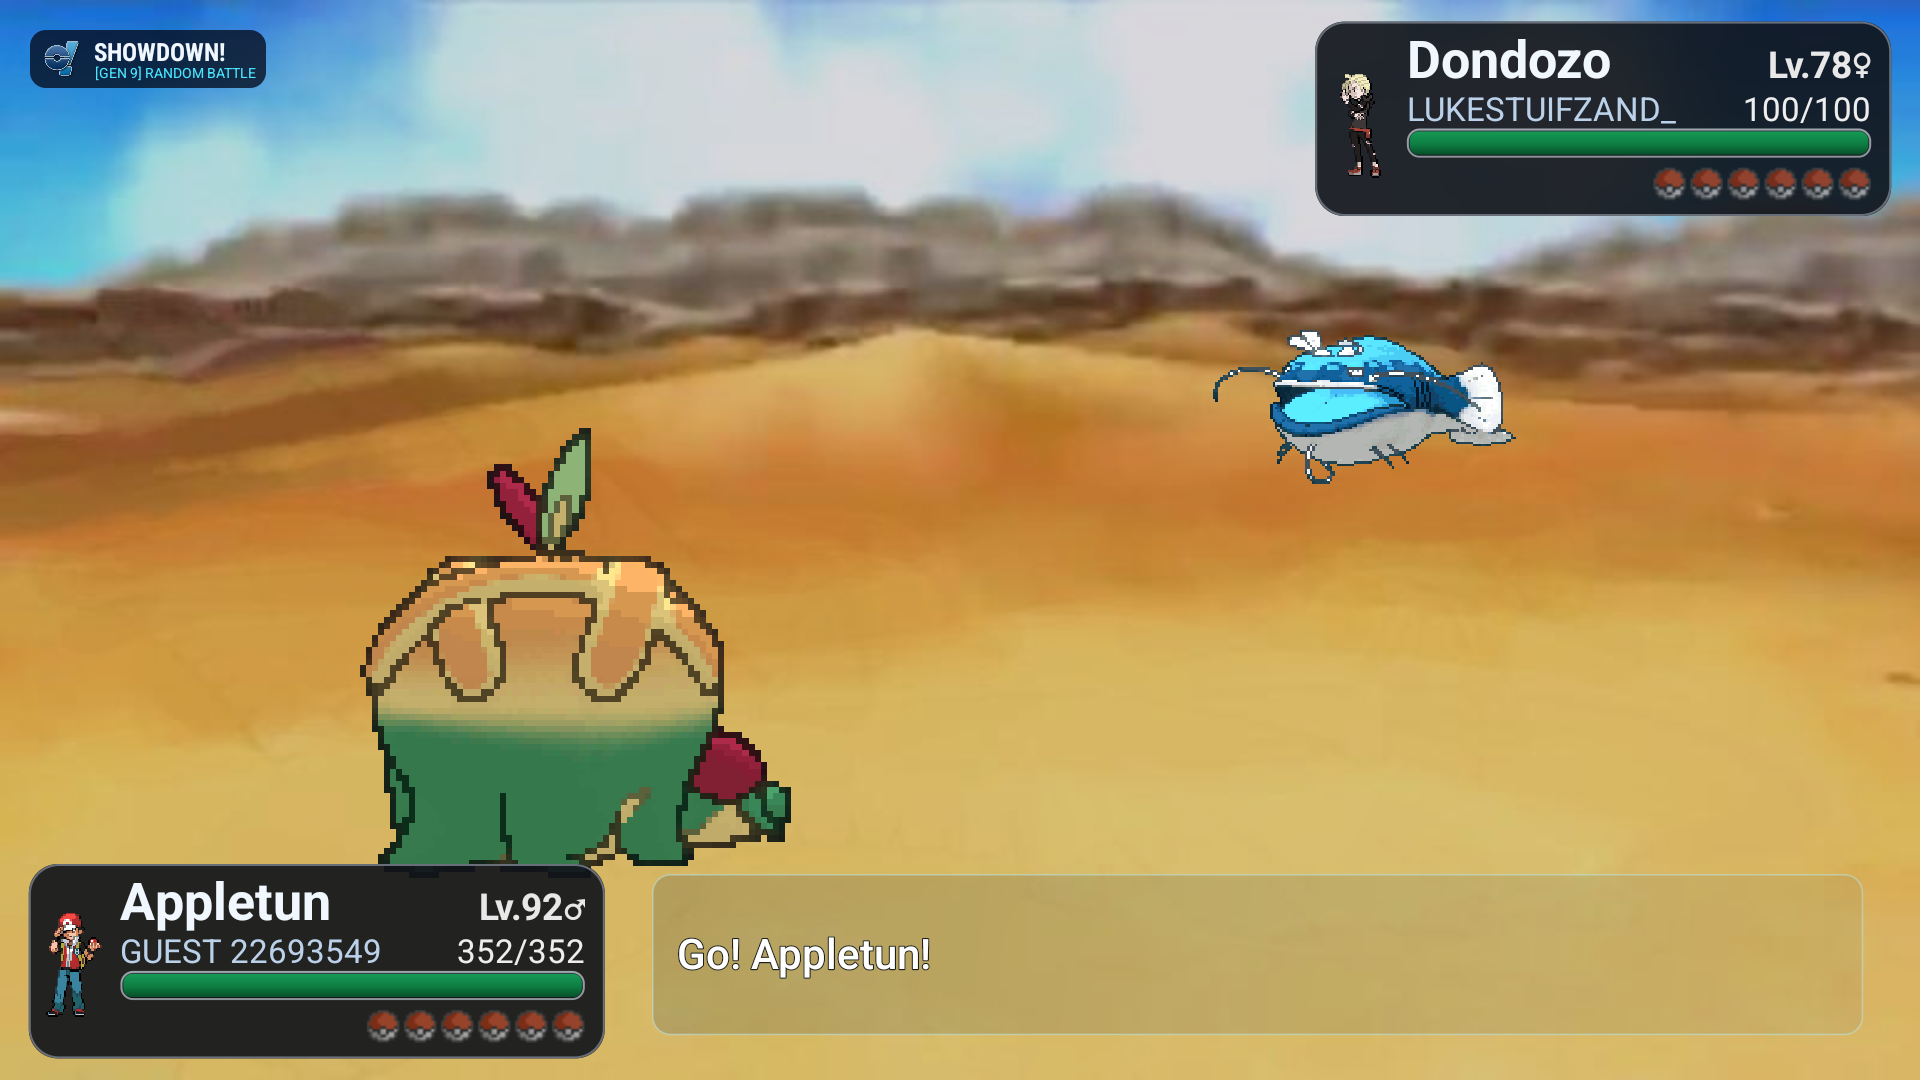
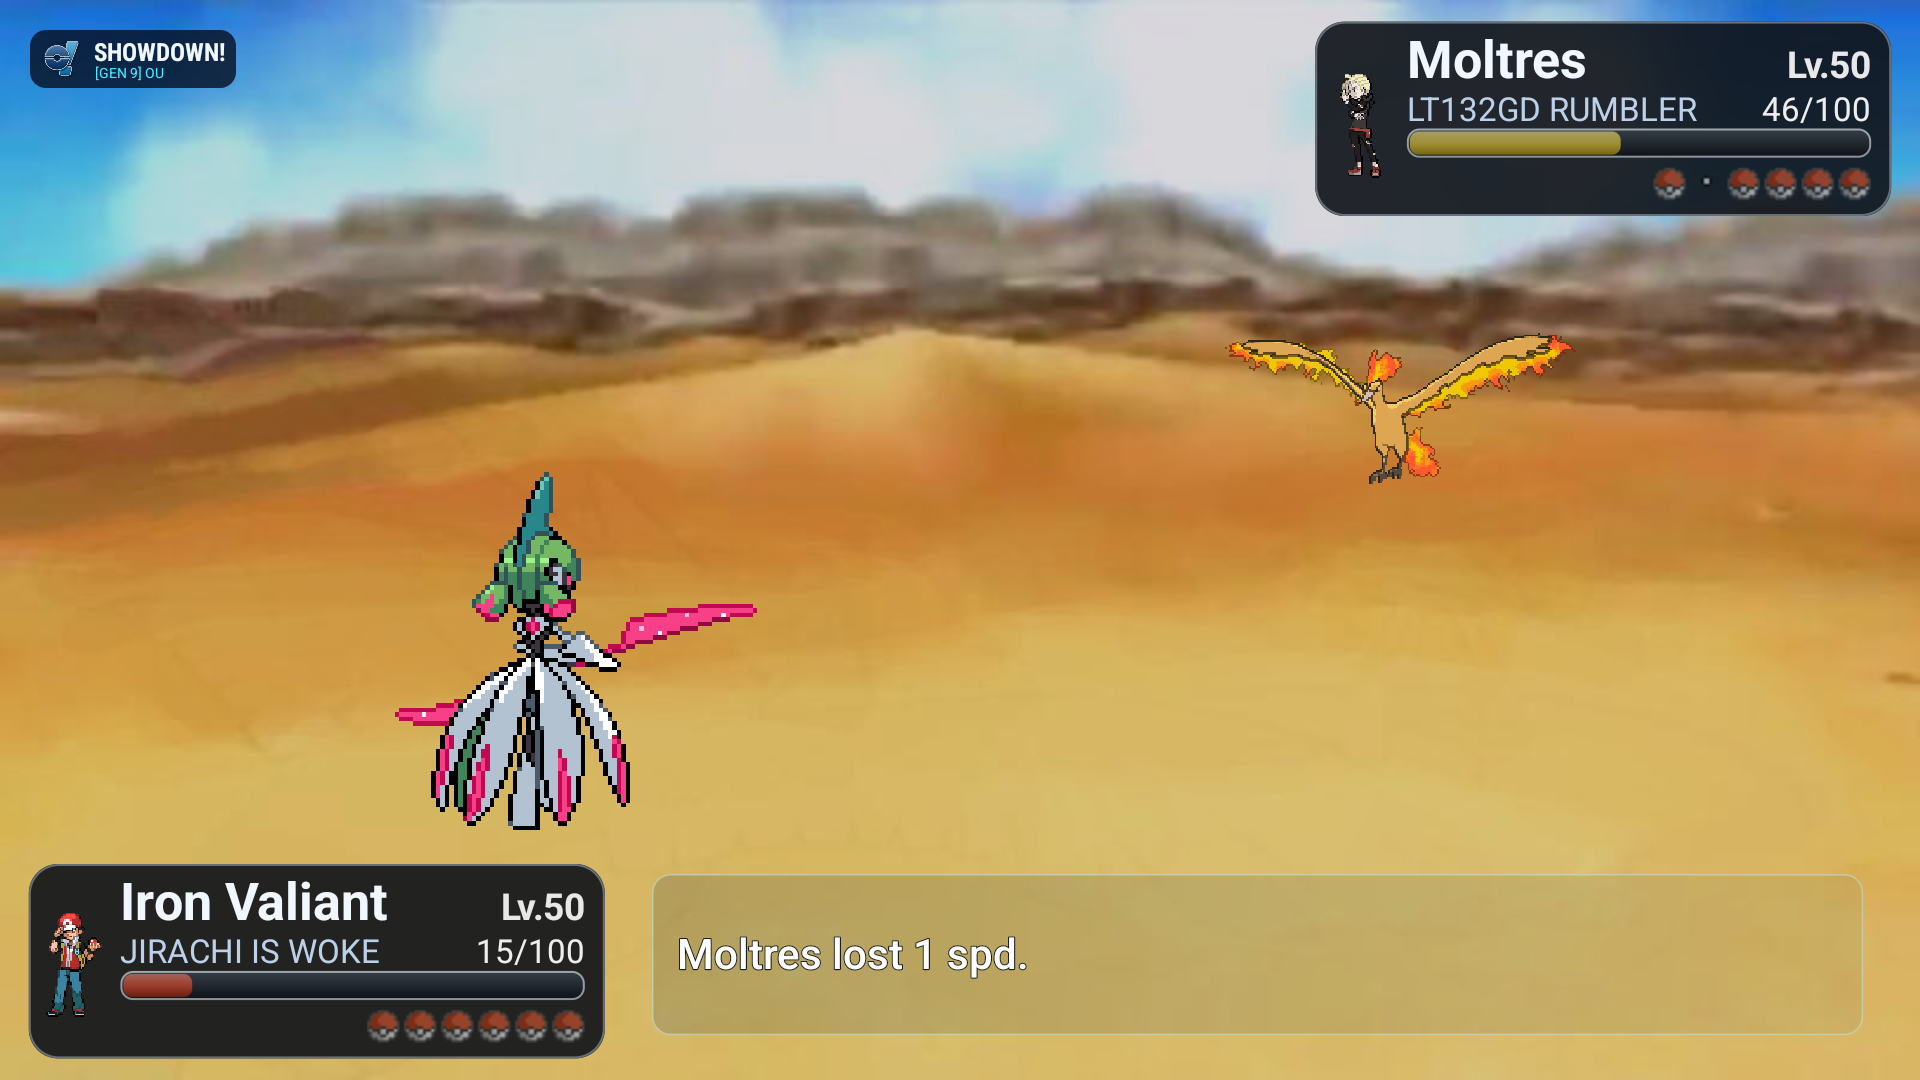
fix: render true Iron Valiant back sprite

diff --git a/app/src/main/kotlin/dev/adrian/showdown/BattleSession.kt b/app/src/main/kotlin/dev/adrian/showdown/BattleSession.kt
@@ -187,7 +187,8 @@ class BattleSession {
         val condition: String,
         val entryAtNanos: Long,
         val dynamaxed: Boolean = false,
-        val gMaxed: Boolean = false
+        val gMaxed: Boolean = false,
+        val volatileEffects: List<String> = emptyList()
     )
 
     data class BattleInfo(
@@ -2041,7 +2042,7 @@ class BattleSession {
     private fun applyStart(fields: List<String>) {
         val actor = fields.getOrNull(2) ?: return
         val slot = actor.substringBefore(":").trim()
-        val effect = fields.getOrNull(3).orEmpty().substringAfter(": ").lowercase()
+        val effect = battleEffectName(fields.getOrNull(3)).lowercase().filter(Char::isLetterOrDigit)
         when (effect) {
             "typechange" -> {
                 if (slot in terastallizedSlots) return
@@ -2064,14 +2065,17 @@ class BattleSession {
                 updateDynamaxState(actor, true, fields.drop(4).any { it.equals("Gmax", true) })
                 if (!isSilent(fields)) appendLog("${battleActor(actor)} Dynamaxed.")
             }
-            else -> if (!isSilent(fields)) appendLog("${battleActor(actor)}: ${battleEffectName(fields.getOrNull(3))} started.")
+            else -> {
+                updateVolatileEffect(actor, effect, true)
+                if (!isSilent(fields)) appendLog("${battleActor(actor)}: ${battleEffectName(fields.getOrNull(3))} started.")
+            }
         }
     }
 
     private fun applyEnd(fields: List<String>) {
         val actor = fields.getOrNull(2) ?: return
         val slot = actor.substringBefore(":").trim()
-        val effect = fields.getOrNull(3).orEmpty().substringAfter(": ").lowercase()
+        val effect = battleEffectName(fields.getOrNull(3)).lowercase().filter(Char::isLetterOrDigit)
         when (effect) {
             "typechange" -> {
                 typeChangeBySlot.remove(slot)
@@ -2087,7 +2091,10 @@ class BattleSession {
                 updateDynamaxState(actor, false)
                 if (!isSilent(fields)) appendLog("${battleActor(actor)} returned to normal size.")
             }
-            else -> if (!isSilent(fields)) appendLog("${battleActor(actor)}: ${battleEffectName(fields.getOrNull(3))} ended.")
+            else -> {
+                updateVolatileEffect(actor, effect, false)
+                if (!isSilent(fields)) appendLog("${battleActor(actor)}: ${battleEffectName(fields.getOrNull(3))} ended.")
+            }
         }
     }
 
@@ -2946,6 +2953,60 @@ class BattleSession {
         else opponentActiveCombatants[slot]?.let { opponentActiveCombatants[slot] = update(it) }
     }
 
+    private fun updateVolatileEffect(actor: String, effect: String, started: Boolean) {
+        val slot = actor.substringBefore(":").trim()
+        val label = volatileEffectLabel(effect) ?: return
+        val update = { combatant: ActiveCombatant ->
+            val effects = combatant.volatileEffects.toMutableList()
+            if (started) {
+                if (label !in effects) effects += label
+            } else {
+                effects.removeAll { it == label }
+            }
+            combatant.copy(volatileEffects = effects)
+        }
+        if (isPlayerSide(actor)) playerActiveCombatants[slot]?.let { playerActiveCombatants[slot] = update(it) }
+        else opponentActiveCombatants[slot]?.let { opponentActiveCombatants[slot] = update(it) }
+    }
+
+    private fun volatileEffectLabel(effect: String): String? {
+        if (effect.startsWith("fallen") || effect.startsWith("protosynthesis") || effect.startsWith("quarkdrive")) return null
+        return when (effect) {
+            "aquaring" -> "Aqua Ring"
+            "attract" -> "Attract"
+            "autotomize" -> "Autotomize"
+            "bind", "partiallytrapped", "wrap" -> "Bound"
+            "confusion" -> "Confusion"
+            "curse" -> "Curse"
+            "disable" -> "Disable"
+            "embargo" -> "Embargo"
+            "encore" -> "Encore"
+            "focusenergy" -> "Focus Energy"
+            "foresight", "miracleeye" -> "Identified"
+            "healblock" -> "Heal Block"
+            "imprison" -> "Imprison"
+            "ingrain" -> "Ingrain"
+            "laserfocus" -> "Laser Focus"
+            "leechseed" -> "Leech Seed"
+            "lightscreen" -> "Light Screen"
+            "luckychant" -> "Lucky Chant"
+            "magnetrise" -> "Magnet Rise"
+            "nightmare" -> "Nightmare"
+            "perish0", "perish1", "perish2", "perish3", "perishsong" -> "Perish Song"
+            "powertrick" -> "Power Trick"
+            "safeguard" -> "Safeguard"
+            "smackdown" -> "Smack Down"
+            "slowstart" -> "Slow Start"
+            "stockpile" -> "Stockpile"
+            "substitute" -> "Substitute"
+            "taunt" -> "Taunt"
+            "telekinesis" -> "Telekinesis"
+            "torment" -> "Torment"
+            "yawn" -> "Drowsy"
+            else -> effect.replaceFirstChar { it.uppercase() }
+        }
+    }
+
     private fun swapSlotState(oldSlot: String, newSlot: String) {
         fun <T> swap(map: MutableMap<String, T>) {
             val oldValue = map.remove(oldSlot)
@@ -3439,6 +3500,7 @@ class BattleSession {
         val pokemon = request.optJSONObject("side")?.optJSONArray("pokemon") ?: return
         val synced = mutableListOf<PokemonDetails>()
         val identifiers = mutableListOf<String>()
+        val previousActiveCombatants = playerActiveCombatants.toMap()
         activeTeamNames.clear()
         activeSlotNames.clear()
         playerActivePartyIndices.clear()
@@ -3505,7 +3567,20 @@ class BattleSession {
                     .takeIf { it >= 0 }
                     ?.let { synced[it] }
                     ?.let { details ->
-                    playerActiveCombatants[slot] = ActiveCombatant(slot, details.name, details.types, details.level, details.gender, details.hp, details.condition, playerEntryAtNanos)
+                    val previous = previousActiveCombatants[slot]?.takeIf { it.name.equals(details.name, true) }
+                    playerActiveCombatants[slot] = ActiveCombatant(
+                        slot = slot,
+                        name = details.name,
+                        types = previous?.types ?: details.types,
+                        level = details.level,
+                        gender = details.gender,
+                        hp = details.hp,
+                        condition = details.condition,
+                        entryAtNanos = playerEntryAtNanos,
+                        dynamaxed = previous?.dynamaxed ?: false,
+                        gMaxed = previous?.gMaxed ?: false,
+                        volatileEffects = previous?.volatileEffects.orEmpty()
+                    )
                 }
             }
         }

diff --git a/app/src/main/kotlin/dev/adrian/showdown/BattleSceneView.kt b/app/src/main/kotlin/dev/adrian/showdown/BattleSceneView.kt
@@ -539,6 +539,9 @@ class BattleSceneView(
     private fun drawInspectSheet(canvas: Canvas, width: Float, height: Float, scale: Float) {
         val playerSide = inspectedPlayer ?: return
         val details = if (playerSide) session.playerDetails() else session.opponentDetails()
+        val activeEffects = (if (playerSide) session.playerActiveCombatants() else session.opponentActiveCombatants())
+            .flatMap { it.volatileEffects }
+            .distinct()
         val bounds = if (playerSide) {
             RectF(width * 0.025f, height * 0.14f, width * 0.49f, height * 0.85f)
         } else {
@@ -604,9 +607,21 @@ class BattleSceneView(
         canvas.drawText(ellipsizeToWidth(details.item, right - left - 110f * scale, paint), right, row, paint)
         paint.textAlign = Paint.Align.LEFT
         row += 62f * scale
-        paint.color = MUTED
         paint.textSize = readableTextSize(36f, scale, 16f)
+        paint.color = MUTED
         canvas.drawText(ellipsizeToWidth(details.stats, right - left, paint), left, row, paint)
+        if (activeEffects.isNotEmpty()) {
+            row += 42f * scale
+            paint.color = MUTED
+            canvas.drawText("Effects", left, row, paint)
+            paint.textAlign = Paint.Align.RIGHT
+            paint.color = INK
+            val effectText = activeEffects.take(3).joinToString(" · ").let { text ->
+                if (activeEffects.size > 3) "$text +${activeEffects.size - 3}" else text
+            }
+            canvas.drawText(ellipsizeToWidth(effectText, right - left - 150f * scale, paint), right, row, paint)
+            paint.textAlign = Paint.Align.LEFT
+        }
         row += 50f * scale
         paint.typeface = android.graphics.Typeface.create("sans-serif", android.graphics.Typeface.BOLD)
         paint.textSize = readableTextSize(40f, scale, 18f)

diff --git a/app/src/test/kotlin/dev/adrian/showdown/OfficialBattleTranscriptTest.kt b/app/src/test/kotlin/dev/adrian/showdown/OfficialBattleTranscriptTest.kt
@@ -267,6 +267,34 @@ class OfficialBattleTranscriptTest {
     }
 
     @Test
+    fun tracksOfficialVolatileEffectsUntilTheirEndPackets() {
+        val session = BattleSession()
+        session.applyProtocolPacket(
+            listOf(
+                "|switch|p1a: Mewtwo|Mewtwo, L50|100/100",
+                "|-start|p1a: Mewtwo|confusion",
+                "|-start|p1a: Mewtwo|move: Substitute",
+                "|-start|p1a: Mewtwo|move: Focus Energy",
+                "|-end|p1a: Mewtwo|confusion"
+            )
+        )
+
+        assertEquals(listOf("Substitute", "Focus Energy"), session.playerActiveCombatants().single().volatileEffects)
+    }
+
+    @Test
+    fun keepsOfficialVolatileEffectsAcrossBattleRequests() {
+        val session = BattleSession()
+        session.applyProtocolLine("|switch|p1a: Mewtwo|Mewtwo, L50|100/100")
+        session.applyProtocolLine("|-start|p1a: Mewtwo|move: Substitute")
+        session.applyProtocolLine(
+            "|request|{\"active\":[{\"moves\":[{\"move\":\"Psychic\",\"pp\":10}]}],\"side\":{\"pokemon\":[{\"ident\":\"p1: Mewtwo\",\"details\":\"Mewtwo, L50\",\"condition\":\"100/100\",\"active\":true}]}}"
+        )
+
+        assertEquals(listOf("Substitute"), session.playerActiveCombatants().single().volatileEffects)
+    }
+
+    @Test
     fun keepsSilentProtocolStateChangesOutOfTheBattleLog() {
         val session = BattleSession()
         session.setPokemonTypeResolver(mapOf("Mewtwo" to listOf("PSYCHIC"))::get)

diff --git a/app/src/main/kotlin/dev/adrian/showdown/ShowdownChangelog.kt b/app/src/main/kotlin/dev/adrian/showdown/ShowdownChangelog.kt
@@ -24,6 +24,7 @@ object ShowdownChangelog {
                 "Battle requests no longer show a Terastal action when the server explicitly disables it.",
                 "Doubles item and ability updates now stay on the correct active Pokémon.",
                 "Battle details now resolve nickname-based protocol identifiers to the active species.",
+                "Active Pokémon details now track readable temporary battle effects until Showdown ends them.",
                 "Duplicate species with different nicknames now keep separate party details.",
                 "Duplicate opponent species now keep item, status, and form updates on the correct party member.",
                 "Long multi-part form identifiers such as Alcremie-Caramel-Swirl now use the base species in readable battle labels while retaining the full form for sprites and battle state.",

diff --git a/app/src/test/kotlin/dev/adrian/showdown/ShowdownAssetPathsTest.kt b/app/src/test/kotlin/dev/adrian/showdown/ShowdownAssetPathsTest.kt
@@ -50,7 +50,6 @@ class ShowdownAssetPathsTest {
     fun neverFallsBackFromAPlayerBackSpriteToAFrontSprite() {
         assertEquals(
             listOf(
-                "sprites/gen5-back/ironvaliant.png",
                 "https://raw.githubusercontent.com/PokeAPI/sprites/master/sprites/pokemon/back/1006.png",
                 "sprites/ani-back/substitute.gif"
             ),

diff --git a/app/src/main/kotlin/dev/adrian/showdown/ShowdownAssetPaths.kt b/app/src/main/kotlin/dev/adrian/showdown/ShowdownAssetPaths.kt
@@ -48,7 +48,6 @@ object ShowdownAssetPaths {
 
     private fun trueBackSpritePaths(species: String): List<String> = when (animationId(species)) {
         "ironvaliant" -> listOf(
-            "sprites/gen5-back/ironvaliant.png",
             "https://raw.githubusercontent.com/PokeAPI/sprites/master/sprites/pokemon/back/1006.png"
         )
         else -> emptyList()

diff --git a/ASSETS.md b/ASSETS.md
@@ -6,6 +6,6 @@
 
 `ShowdownSpriteCache` loads animated front and back Pokémon GIFs from `https://play.pokemonshowdown.com/sprites/xyani/` and `https://play.pokemonshowdown.com/sprites/xyani-back/` by default, plus trainer PNGs from `https://play.pokemonshowdown.com/sprites/trainers/`, the `sprites/gen6bgs/bg-aquacordetown.jpg` battle backdrop, `audio/sm-trainer.mp3`, `audio/notification.wav`, and species cries from `audio/cries/`. The classic setting uses the Gen 5 animation collections. These files are fetched at runtime and are not bundled in the APK. The app keeps an internal 96 MB least-recently-used disk cache and a 16-entry memory cache.
 
-Iron Valiant's true back-facing fallback uses Showdown's dedicated static back sprite when the animated back asset is unavailable, with the [PokeAPI sprites repository](https://github.com/PokeAPI/sprites) as a secondary fallback.
+Iron Valiant's true back-facing fallback uses the [PokeAPI sprites repository](https://github.com/PokeAPI/sprites) when Showdown does not publish a usable animated back asset.
 
 The local HD texture collection was inspected but is not bundled. It contains hash-named texture dumps without a title-to-file mapping, so its contents cannot be attributed or selected reproducibly yet.
